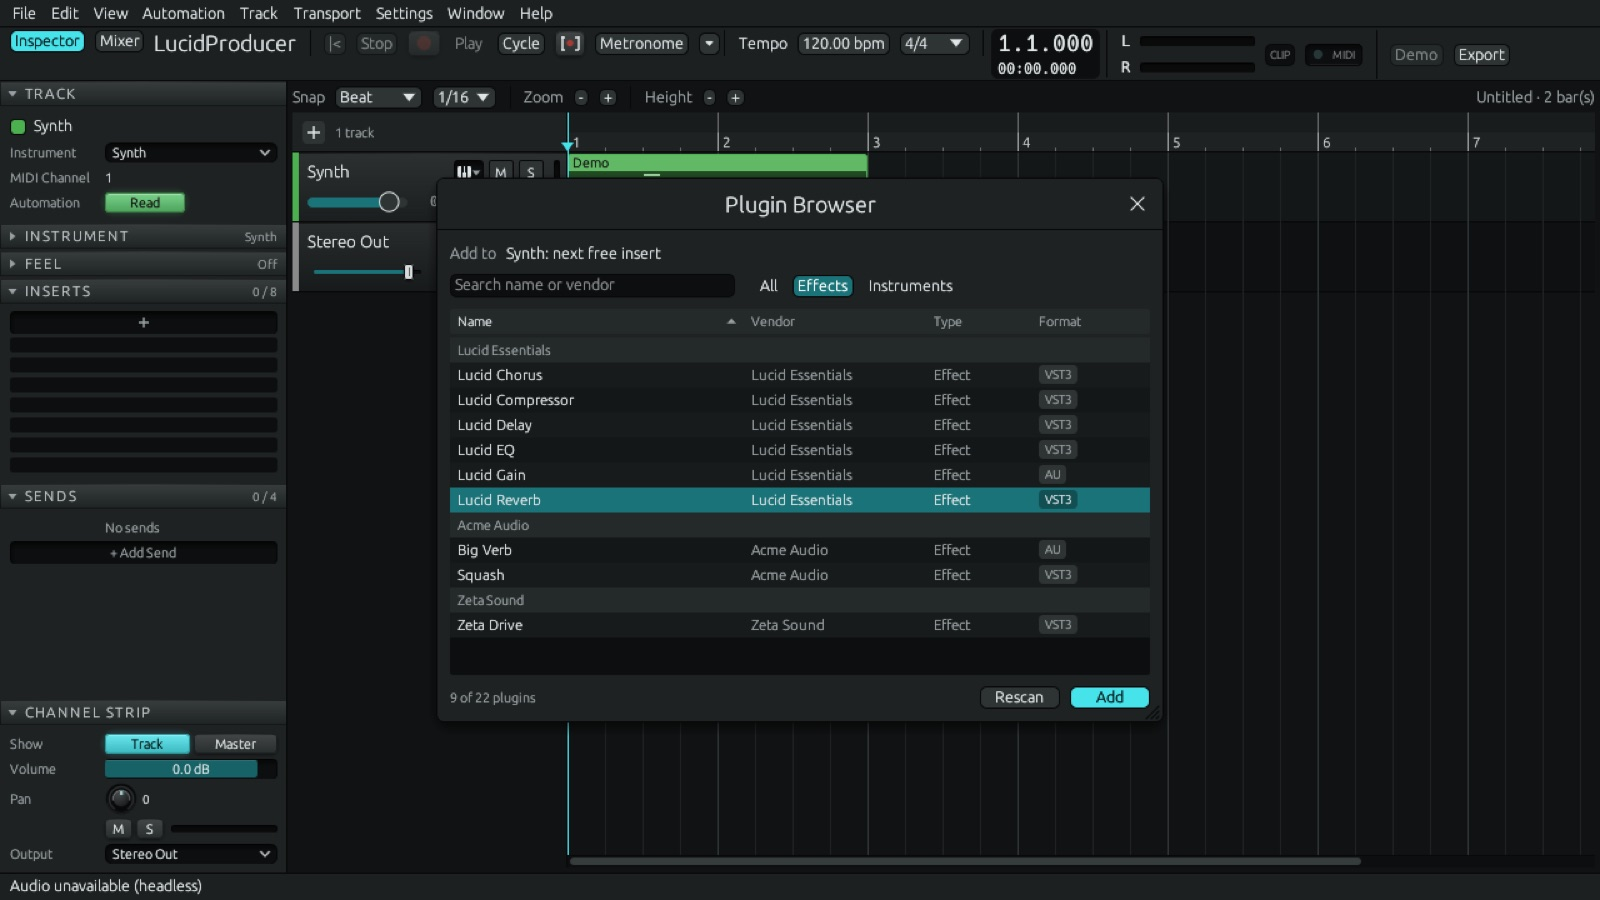
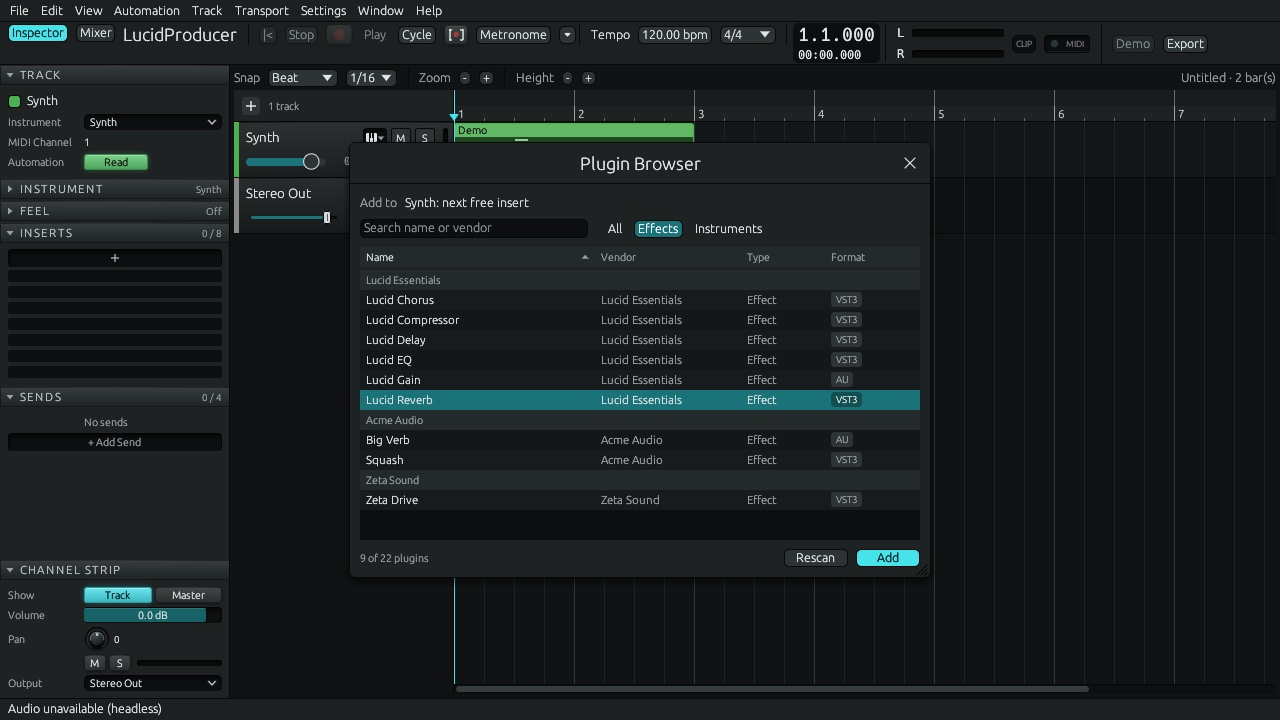
Hero image: the Rock demo with the mixer; native-size 1280x720 shots; automation screenshot

diff --git a/index.html b/index.html
@@ -7,7 +7,7 @@
   <meta name="description" content="LucidProducer is a digital audio workstation written from scratch in Rust that people and AI agents drive with the same tools.">
   <meta property="og:title" content="LucidProducer · the agentic DAW">
   <meta property="og:description" content="A from-scratch DAW in pure Rust that people and AI agents drive with the same tools.">
-  <meta property="og:image" content="img/demo-techno-arrange.jpg">
+  <meta property="og:image" content="img/demo-rock-mixer.jpg">
   <link rel="icon" type="image/png" href="img/favicon.png">
   <style>
     :root {
@@ -142,7 +142,7 @@
       <li class="status">Pre-release · 1.1.0-rc5</li>
     </ul>
     <div class="hero-shot">
-      <img src="img/demo-techno-arrange.jpg" alt="LucidProducer's arrange window with the Techno demo song: drums, an acid line and stabs, with the drum kit's controls in the inspector" width="1600" height="1000">
+      <img src="img/demo-rock-mixer.jpg" alt="LucidProducer with the Rock demo song: drums, bass, power chords and a lead in the arrange view, with the mixer below" width="1600" height="1000">
     </div>
   </div>
 </header>
@@ -230,12 +230,12 @@
     <h2>Screenshots</h2>
     <p class="intro">From the demo songs and the app's own snapshot tests. Click an image to enlarge it.</p>
     <div class="gallery">
-      <figure><img src="img/demo-rock-mixer.jpg" alt="The mixer with the Rock demo song" loading="lazy"><figcaption>The mixer, with the Rock demo song.</figcaption></figure>
+      <figure><img src="img/demo-techno-arrange.jpg" alt="The arrange window with the Techno demo song" loading="lazy"><figcaption>The arrange window, with the Techno demo song.</figcaption></figure>
       <figure><img src="img/demo-classical-piano-roll.jpg" alt="The piano roll with the Classical demo song" loading="lazy"><figcaption>The piano roll, with the Classical demo song.</figcaption></figure>
       <figure><img src="img/step-sequencer-drummer.jpg" alt="The step sequencer showing a Drummer groove" loading="lazy"><figcaption>The step sequencer with a Drummer groove.</figcaption></figure>
       <figure><img src="img/window-tiled-two-piano-rolls.jpg" alt="The tiled window with two piano rolls open" loading="lazy"><figcaption>The tiled window: two piano rolls side by side.</figcaption></figure>
+      <figure><img src="img/arrange-automation.jpg" alt="Automation lanes in the arrange view" loading="lazy"><figcaption>Automation lanes in the arrange view.</figcaption></figure>
       <figure><img src="img/plugins-browser.jpg" alt="The plugin browser" loading="lazy"><figcaption>The plugin browser: AU, VST3 and CLAP.</figcaption></figure>
-      <figure><img src="img/demo-techno-arrange.jpg" alt="The arrange window with the Techno demo song" loading="lazy"><figcaption>The arrange window, with the Techno demo song.</figcaption></figure>
     </div>
   </div>
 </section>
